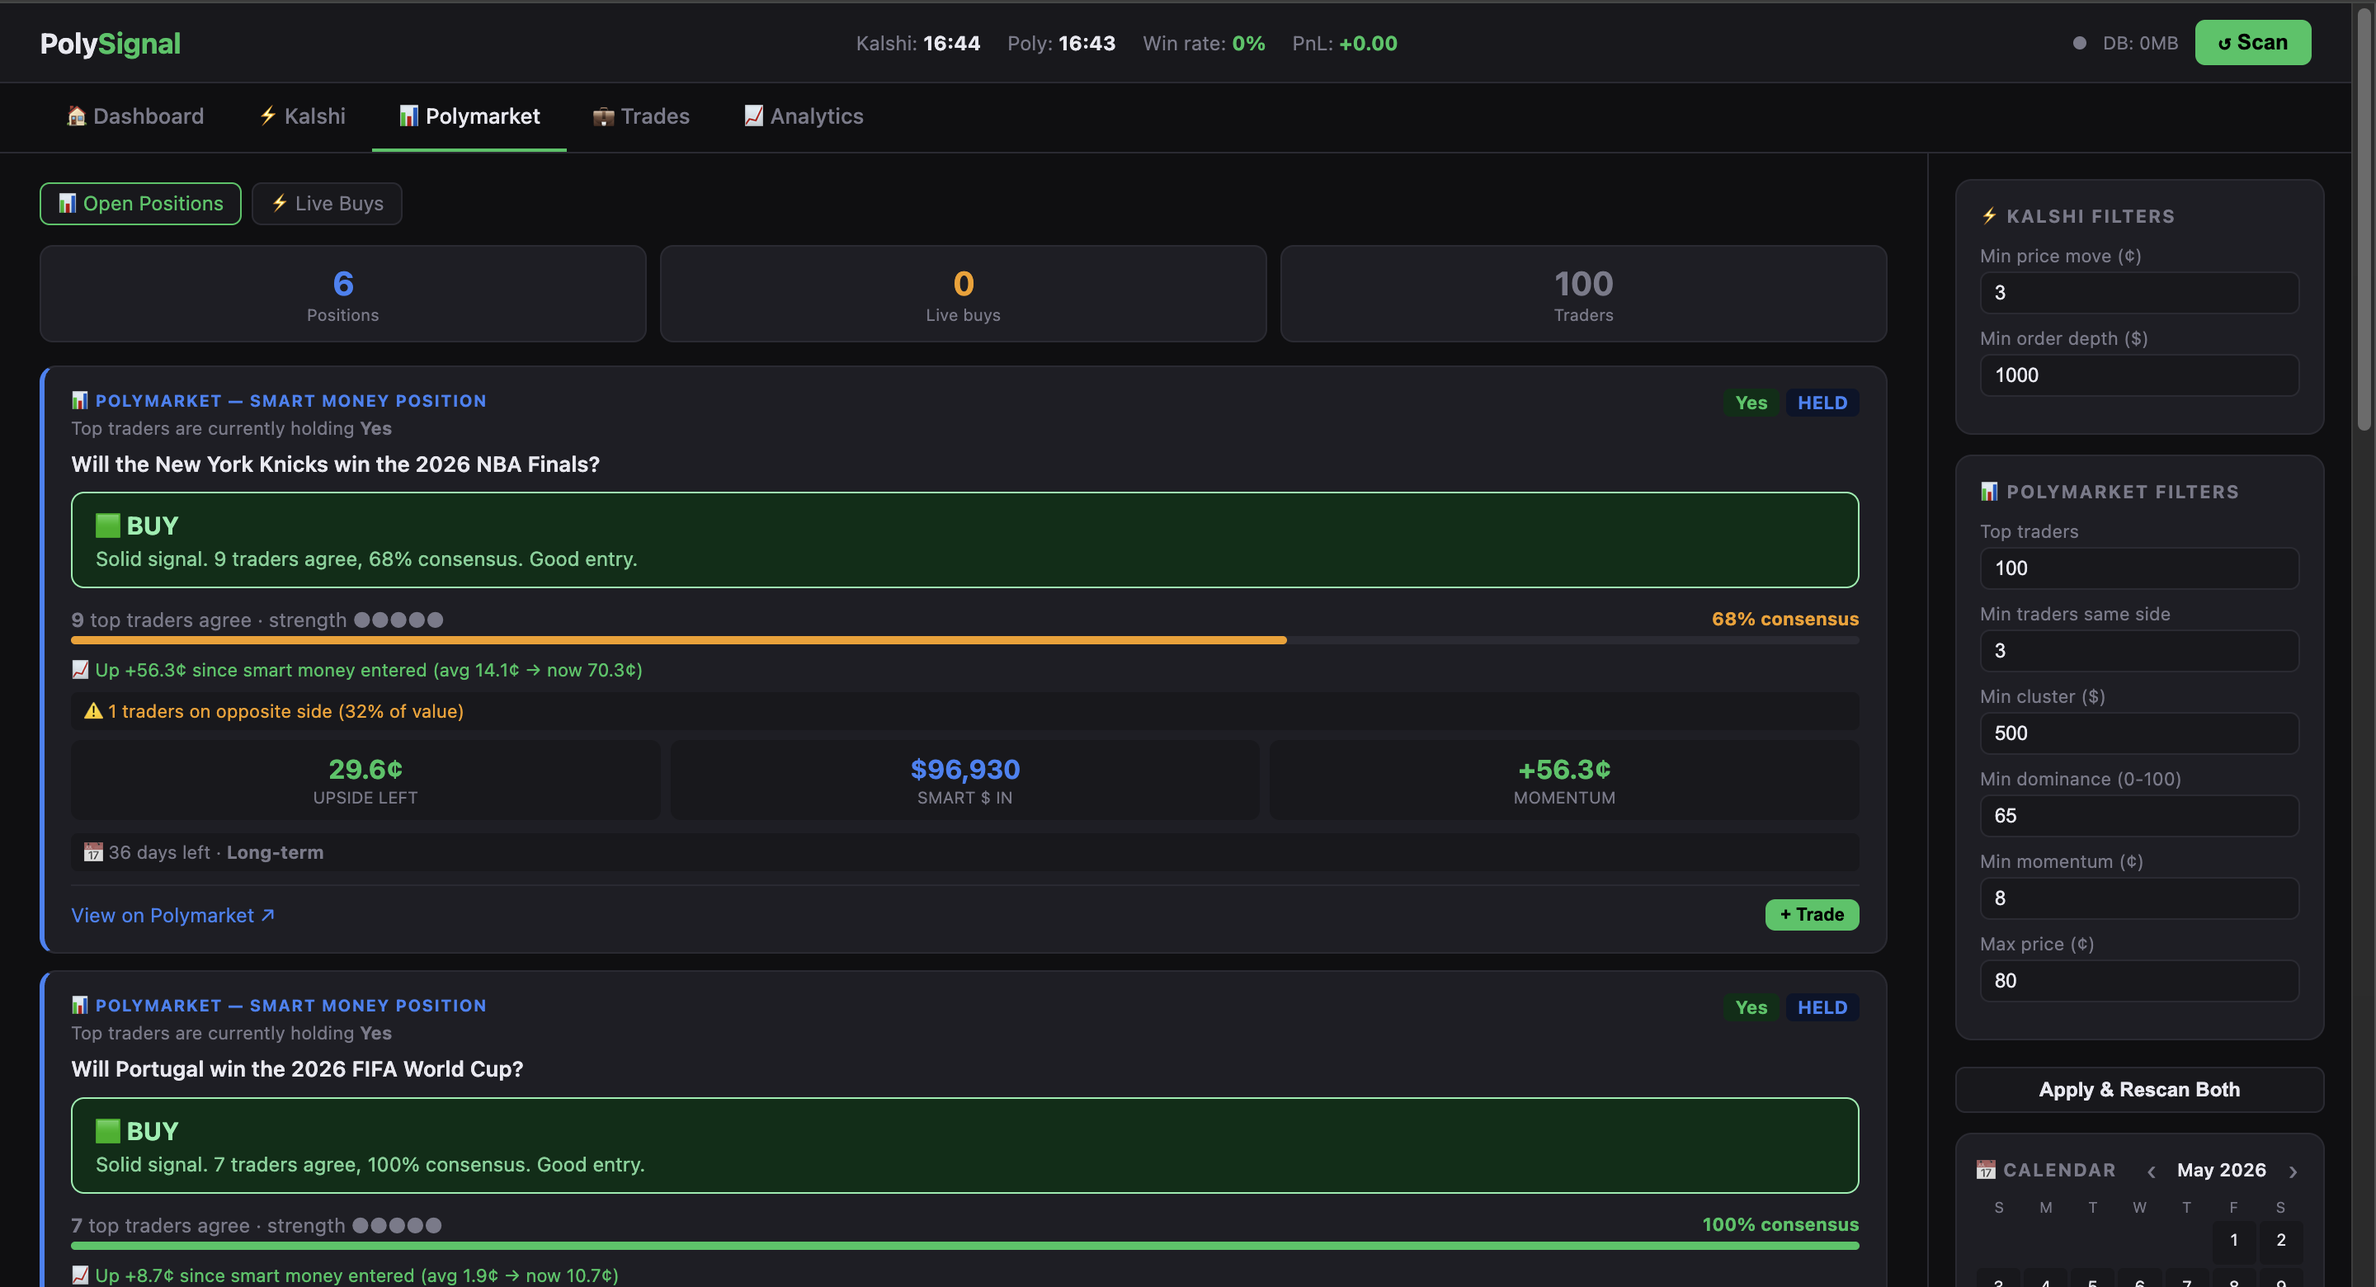
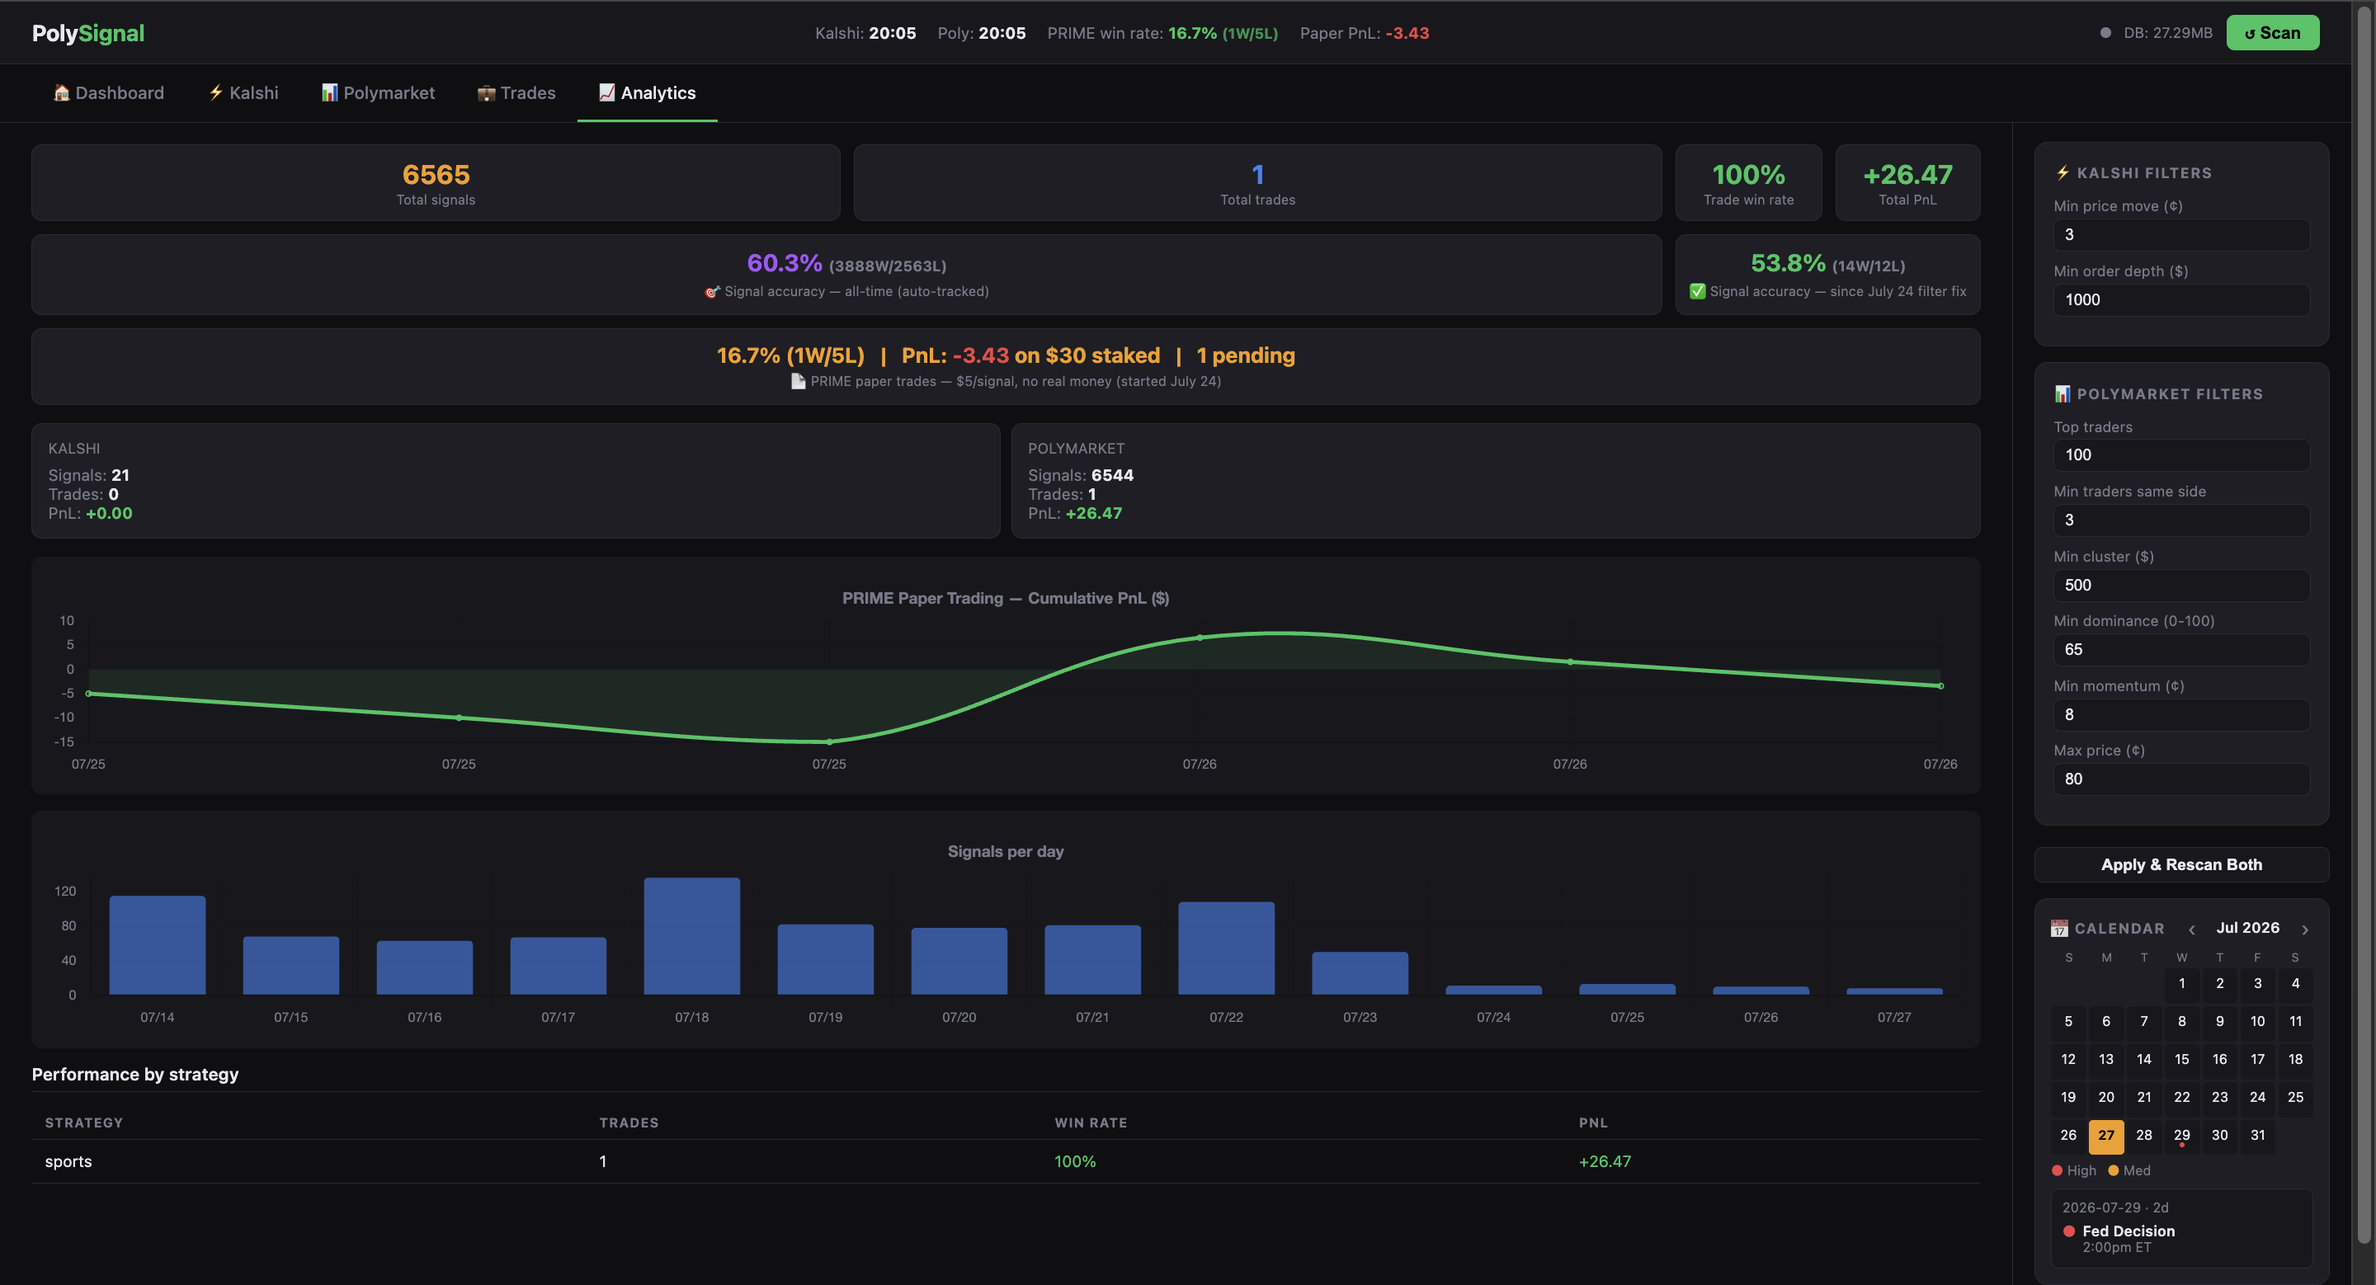
Update README screenshots: include header PnL bar, add live signal card example

diff --git a/README.md b/README.md
@@ -1,6 +1,6 @@
 # PolySignal
 
-A real-time behavioral analytics platform monitoring 200+ prediction markets across [Kalshi](https://kalshi.com) and [Polymarket](https://polymarket.com). Detects order flow shifts, smart money consensus patterns, and liquidity changes to surface actionable signals across economics, Fed policy, crypto, sports, and politics markets.
+A real-time behavioral analytics platform monitoring 200+ prediction markets across [Kalshi](https://kalshi.com) and [Polymarket](https://polymarket.com). Detects smart money consensus patterns and surfaces signals with a statistically verified, audited edge — not just a raw activity feed.
 
 **Live:** [polysignal-production-0227.up.railway.app](https://polysignal-production-0227.up.railway.app)
 
@@ -10,26 +10,54 @@ A real-time behavioral analytics platform monitoring 200+ prediction markets acr
 
 ## What it does
 
-Prediction markets price the probability of real-world events. Large, informed traders move these prices before information becomes public. PolySignal monitors this activity in real time across two platforms:
+Prediction markets price the probability of real-world events. PolySignal monitors top-ranked Polymarket traders in real time, detects when multiple independent accounts converge on the same position, and cross-references that against a corrected, audited outcome dataset to identify where the market is genuinely mispriced — rather than assuming consensus itself is predictive.
 
-- **Kalshi** — detects anonymous large orders moving market prices (order flow signals)
-- **Polymarket** — tracks the top 100 ranked traders by PnL and surfaces markets where multiple smart money accounts converge on the same side (consensus signals)
+The project's most important finding came from questioning its own results: an initial backtest suggested a large, sweeping edge across cheap contracts. Digging into *why* it was that large surfaced a data-integrity bug affecting over half of all historical outcome labels. Fixing it and re-running the analysis produced a smaller, real, and independently verified edge — concentrated specifically in fresh, sub-35¢ signals, with pricing above roughly 50¢ turning out to be close to efficient rather than broadly mispriced as first believed.
 
-When both platforms agree on the same market, the signal confidence is significantly higher.
+---
+
+## Key Finding: Auditing Your Own Backtest
+
+Early analysis of 6,350+ resolved signals suggested cheap (≤35¢) contracts carried a ~20¢+ per-contract edge, while expensive (80¢+) contracts lost ~50¢ per contract — a dramatic reverse favorite-longshot bias.
+
+That number turned out to be substantially inflated by a resolution bug: the outcome-checker compared a signal's result against a generic market price rather than the *specific* side it was on, silently flipping WON/LOST for roughly half of two-sided markets. A standalone audit tool (`audit_outcomes.py`) was built to re-verify every historical signal against ground-truth settlement data pulled directly from Polymarket's CLOB API, matching on the named outcome rather than a price threshold.
+
+**Result:** 3,369 of 6,386 signals (53%) had the wrong label. After correcting the data and re-running the analysis:
+
+| Price range | Edge (pre-audit) | Edge (corrected, deduplicated) |
+|---|---|---|
+| ≤35¢ | +24.0¢ | **+7.0¢** (391 distinct markets) |
+| 36–50¢ | +6.3¢ | +2.4¢ (thin, near noise) |
+| 51–65¢ | -3.2¢ | -3.4¢ |
+| 66–80¢ | -20.4¢ | -2.8¢ |
+| 80¢+ | -48.7¢ | -1.0¢ |
+
+The market is far more efficient than the initial backtest suggested. A real, statistically defensible edge (32% win rate vs. a 25% breakeven implied by price) survives specifically in fresh, sub-35¢ signals — everything above ~50¢ is close to fairly priced, not badly mispriced.
+
+Both the resolution bug and the audit fix are live in production. `poly_max_price` and alerting are tuned to the corrected finding, not the original inflated one.
+
+---
+
+## Live Validation: Paper Trading
+
+Rather than trust the corrected backtest alone, every signal that clears the validated filter (fresh, ≤35¢) is logged as a hypothetical $5 position — no real capital — and automatically resolved against the same audited outcome pipeline. This builds a genuine forward track record on top of the historical analysis, visible on the dashboard as a live cumulative PnL chart.
 
 ---
 
 ## Features
 
-- **Real-time order flow detection** — scans 200+ Kalshi markets every 60 seconds for significant price moves with minimum order depth thresholds
-- **Smart money consensus tracking** — monitors top 100 Polymarket traders by monthly PnL, detects when 3+ independent accounts hold the same position
-- **Cluster detection** — alerts when 2+ large orders hit the same Kalshi market in the same direction within a 4-hour window
-- **Signal outcome tracking** — automatically marks signals WON/LOST when markets resolve, building a historical accuracy dataset
-- **Telegram alerts** — real-time notifications with action recommendations (STRONG BUY / BUY / WATCH / STAY OUT), timing context (short vs long-term), and momentum data
-- **Morning brief** — daily 8am summary of top active positions and upcoming economic releases
-- **FRED economic calendar** — integrates Federal Reserve release dates for CPI, GDP, NFP, PCE, PPI, and retail sales
-- **Trade logging** — manual trade entry with unrealized PnL tracking and strategy tagging
-- **Analytics dashboard** — signal accuracy by platform, PnL tracking, signals per day chart, and performance by strategy
+- **Real-time consensus tracking** — monitors top 100 Polymarket traders by monthly PnL, detects when 3+ independent accounts converge on the same position
+- **Audited outcome resolution** — signals resolve only once a market's actual `closed` status is confirmed via Polymarket's CLOB API, matched against the specific named outcome (not a generic price threshold)
+- **Freshness-gated alerting** — only signals caught before significant price drift (<2¢ moved) trigger a Telegram alert; the confirmed-weaker tier is tracked but not surfaced
+- **Paper trading** — every alerted signal is logged as a $5 hypothetical position and auto-resolved, building a live, real-money-free performance record
+- **Standalone audit tooling** — `audit_outcomes.py` independently re-verifies historical outcome data against ground truth, catching systemic labeling defects after the fact
+- **Kalshi order flow detection** — scans 200+ Kalshi markets every 60 seconds for significant price moves with minimum order depth thresholds
+- **Telegram alerts** — real-time PRIME-tier notifications with entry price, momentum, consensus %, and live/upcoming resolution context
+- **Morning brief** — daily summary of active signals, paper trading performance, and upcoming Fed/economic releases
+- **Analytics dashboard** — all-time and post-fix signal accuracy, paper trading cumulative PnL, signal volume by day
+
+![Live signal example](screenshot-signals.png)
+*A live PRIME signal: consensus %, momentum since entry, and upside remaining, surfaced the moment 3+ top traders converge on the same side.*
 
 ---
 
@@ -40,64 +68,63 @@ When both platforms agree on the same market, the signal confidence is significa
 | Backend | Python 3, Flask |
 | Database | PostgreSQL (Railway) / SQLite (local) |
 | ORM | SQLAlchemy |
-| Scheduling | Python threading |
-| Deployment | Railway (24/7) |
+| Deployment | Railway, two services (24/7) |
 | Alerts | Telegram Bot API |
-| Data Sources | Kalshi API, Polymarket Data API, FRED API |
+| Data Sources | Kalshi API, Polymarket Data API, Polymarket CLOB API, Polymarket Gamma API, FRED API |
 | Frontend | Vanilla JS, Chart.js |
 
 ---
 
 ## Architecture
 
+Deployed as **two independent Railway services** sharing one PostgreSQL database:
+
 ```
 polysignal/
-├── polysignal.py      # Flask app, routes, scan runners, scheduler
-├── database.py        # SQLAlchemy models, DB helpers
-├── kalshi.py          # Kalshi API, orderbook analysis, accumulator
-├── polymarket.py      # Leaderboard fetching, consensus detection
-├── signals.py         # Alert logic, outcome tracking, FRED calendar
-├── telegram_bot.py    # Telegram formatting and polling
+├── worker.py           # Standalone scanner — runs all scans, alerting,
+│                        # outcome resolution, and paper trading 24/7.
+│                        # This is the live process; polysignal.py has
+│                        # no scanning logic of its own.
+├── polysignal.py        # Flask dashboard — reads from the shared DB,
+│                        # serves the web UI. No scanner.
+├── database.py          # SQLAlchemy models, DB helpers, paper trading
+├── kalshi.py             # Kalshi API, orderbook analysis, accumulator
+├── polymarket.py         # Leaderboard fetching, consensus detection,
+│                        # CLOB/Gamma price + resolution lookups
+├── signals.py            # Alert logic, audited outcome resolution,
+│                        # FRED calendar, price-after tracking
+├── telegram_bot.py       # Telegram formatting and polling
+├── audit_outcomes.py     # Standalone tool: re-verifies historical
+│                        # outcomes against Polymarket ground truth
 ├── requirements.txt
 └── Procfile
 ```
 
-**Background threads (always running):**
+**worker.py background loop (always running):**
 - Kalshi scan — every 60 seconds
 - Polymarket positions — every 5 minutes
 - Polymarket live buys — every 90 seconds
-- Trade price updater — after each Kalshi scan
-- Signal outcome checker — after each Kalshi scan
-- DB cleanup (snapshots > 7 days) — after each Kalshi scan
+- Signal outcome resolution (CLOB-verified, named-outcome matched) — after each scan
+- Paper trade resolution — after each outcome check
+- Signal/trader price-history tracking (15m/1h/4h/24h/7d buckets) — hourly
+- DB cleanup (snapshots, 2-day retention) — after each scan
 
 ---
 
 ## Signal Logic
 
-### Kalshi — Order Flow
-Triggers when YES price moves ≥3¢ with order depth ≥$1,000 in a single scan cycle. Anonymous — you're following money movement, not a specific trader.
-
-**Cluster alert:** fires when 2+ qualifying moves hit the same market in the same direction within 4 hours and combined depth exceeds $2,000.
-
 ### Polymarket — Smart Money Consensus
-Pulls the top 100 traders by monthly PnL. For each market, calculates:
-- How many independent top traders hold the same side
-- Rank-weighted dominance score
-- Momentum (current price vs weighted avg entry)
+Pulls the top 100 traders by monthly PnL. For each market: trader count, rank-weighted dominance, momentum (current price vs. weighted avg entry).
 
-Signals require: ≥3 traders, ≥65% dominance, ≥8¢ momentum, current price ≤80¢.
+**Signal creation requires:** ≥3 traders, ≥65% dominance, current price ≤35¢ (tightened from an original 80¢ cap after the corrected edge analysis showed no defensible edge above ~50¢).
 
-### Action Recommendations
-Every signal card shows a clear recommended action:
+**Alerting additionally requires freshness:** price moved <2¢ since the tracked entry. This is the tier with the confirmed, audited edge (+16.1¢/contract on corrected data); the "moved" tier is tracked internally but no longer alerted on, since it showed no meaningful edge after correction.
 
-| Label | Meaning |
-|---|---|
-| 🟢 STRONG BUY ✦ | High confidence — multiple strong criteria met |
-| 🟩 BUY | Solid signal, good entry |
-| 🟡 QUICK ENTRY ⚡ | Short-term play, act fast |
-| 🟠 WATCH 👀 | Signal present but not all criteria ideal |
-| 🔴 STAY OUT | Large sell — money flowing out |
-| ⚫ TOO LATE | Upside already captured |
+### Outcome Resolution
+A signal resolves WON/LOST only when Polymarket's own `closed` flag confirms the market has actually settled — checked via CLOB, with Gamma as fallback — matched against the specific outcome name the signal was on. Price alone is never used as a resolution proxy; an earlier version of this logic did use a price threshold and was the source of the 53% mislabeling bug described above.
+
+### Kalshi — Order Flow
+Triggers when YES price moves ≥3¢ with order depth ≥$1,000 in a single scan cycle.
 
 ---
 
@@ -111,10 +138,10 @@ pip install -r requirements.txt
 TELEGRAM_BOT_TOKEN=your_token \
 TELEGRAM_CHAT_ID=your_chat_id \
 FRED_API_KEY=your_fred_key \
-python3 polysignal.py
+python3 worker.py
 ```
 
-Open `http://localhost:5050`
+Run `polysignal.py` separately (or via Flask/gunicorn) to serve the dashboard against the same `DATABASE_URL`.
 
 **Get API keys:**
 - FRED: [fred.stlouisfed.org/docs/api/api_key.html](https://fred.stlouisfed.org/docs/api/api_key.html) (free)
@@ -125,37 +152,37 @@ Open `http://localhost:5050`
 
 ## Deployment (Railway)
 
+Deployed as two separate Railway services against one shared PostgreSQL database:
+
 1. Fork this repo
 2. Create a Railway project with a PostgreSQL database
-3. Connect your GitHub repo to Railway
-4. Set environment variables: `TELEGRAM_BOT_TOKEN`, `TELEGRAM_CHAT_ID`, `FRED_API_KEY`, `DATABASE_URL`
-5. Deploy — Railway auto-detects the Procfile and runs gunicorn
-
-The app switches automatically between SQLite (local) and PostgreSQL (production) based on the `DATABASE_URL` environment variable.
+3. Add **two services** from the same repo:
+   - `polysignal-worker` — start command `python3 worker.py` (all scanning, alerting, resolution)
+   - `polysignal` — start command per `Procfile` (`gunicorn`), dashboard only
+4. Set environment variables on both services: `TELEGRAM_BOT_TOKEN`, `TELEGRAM_CHAT_ID`, `FRED_API_KEY`, `DATABASE_URL`
+5. Deploy both
 
 ---
 
 ## Data Collected
 
-The platform continuously logs:
-- **Signals** — platform, market, direction, price move, depth, timestamp, outcome (WON/LOST)
-- **Market snapshots** — Kalshi price and depth every 60 seconds (auto-cleaned after 7 days)
-- **Trades** — manual entries with entry/exit price, PnL, strategy tag
+- **Signals** — platform, market, direction, price at detection, momentum, dominance, timestamp, audited outcome (WON/LOST)
+- **Paper trades** — hypothetical $5 positions on every alerted (PRIME) signal, auto-resolved against the same audited pipeline
+- **Signal/trader price history** — price at 15m/1h/4h/24h/7d after signal detection, for repricing and trader-accuracy research
+- **Market snapshots** — Kalshi price and depth every 60 seconds (2-day retention)
 - **Economic events** — upcoming FRED release dates
-
-Signal outcome data accumulates over time to build a historical accuracy dataset for each signal type, enabling future classification and confidence scoring.
 
 ---
 
 ## Status
 
-Actively developed. Currently in data collection phase — accumulating signal outcomes to train signal classification and confidence scoring.
+Actively developed and running in production. The core edge-finding phase is complete and independently audited; current focus is accumulating a live paper-trading sample to validate the corrected finding forward, and researching whether the edge concentrates further by time-to-resolution or by individual trader identity.
 
 **Roadmap:**
-- [ ] Signal archetype classification (conviction vs scalp vs noise)
-- [ ] Price-after tracking (5m, 15m, 1h, 24h post-signal)
-- [ ] Cross-platform arbitrage detection
-- [ ] Confidence scoring model trained on collected outcomes
+- [ ] Time-to-resolution analysis on corrected, unbiased data (the field needed for this, `hours_to_close`, was itself found and fixed mid-project)
+- [ ] Trader-identity analysis — do specific top traders predict edge independent of consensus count (already shown *not* to matter on its own)
+- [ ] Repricing/drift analysis using `signal_price_history` — does price move toward fair value shortly after a fresh signal, enabling an early-exit strategy
+- [ ] Kalshi signal volume investigation (currently near-zero over two months — likely a threshold or coverage issue, not yet diagnosed)
 
 ---
 
